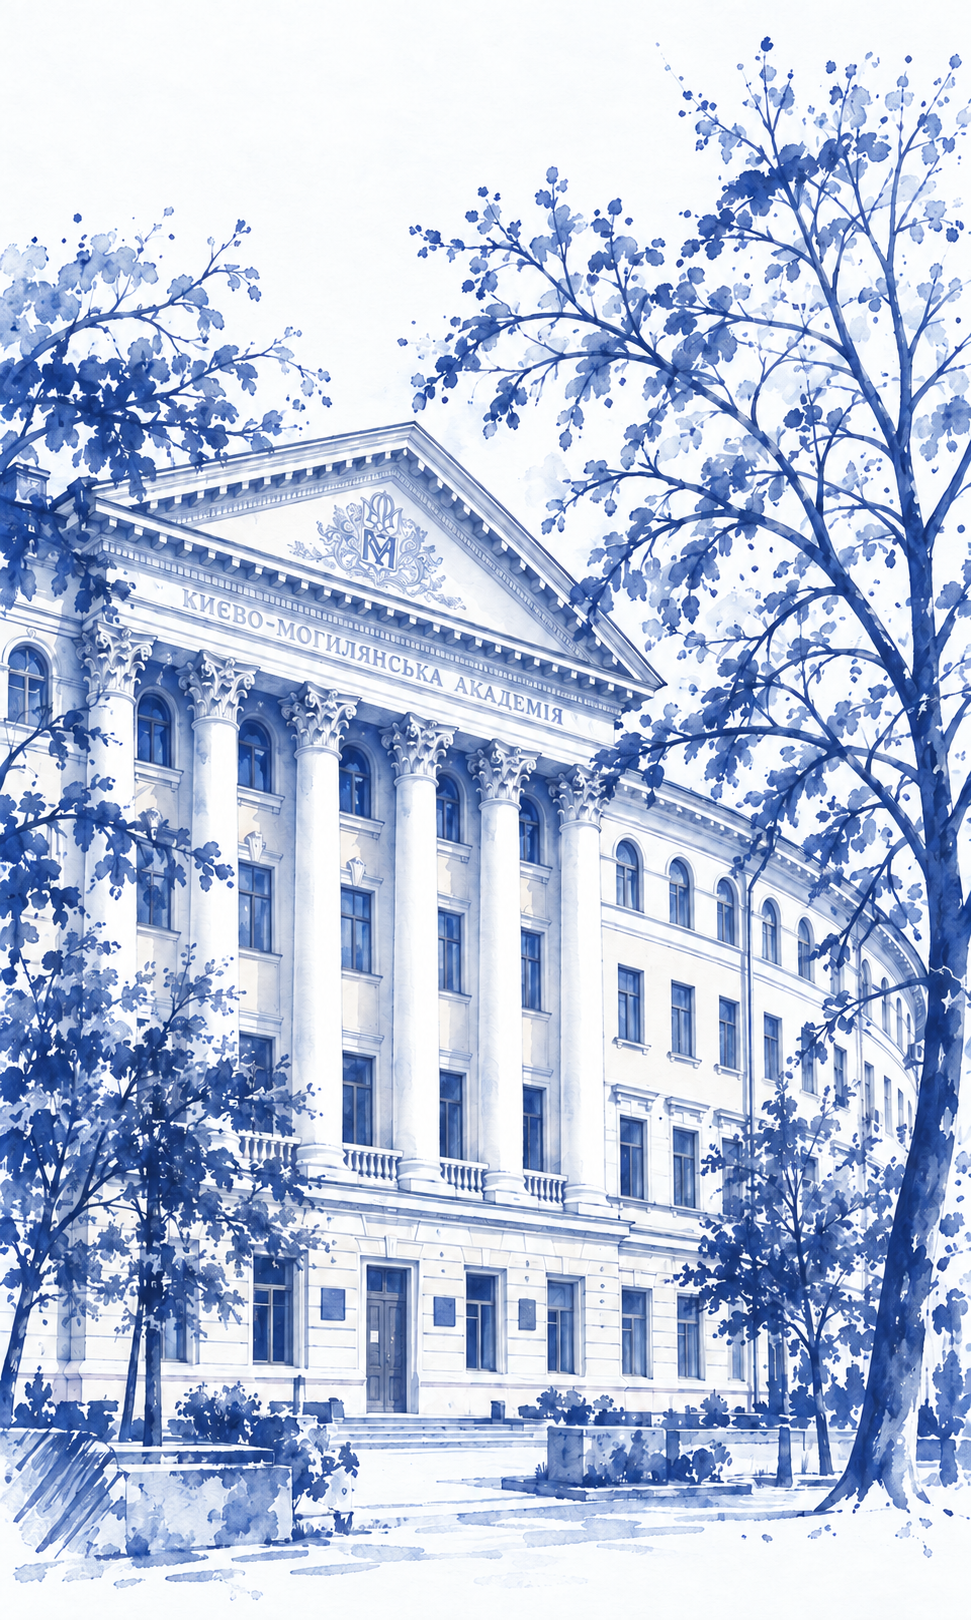
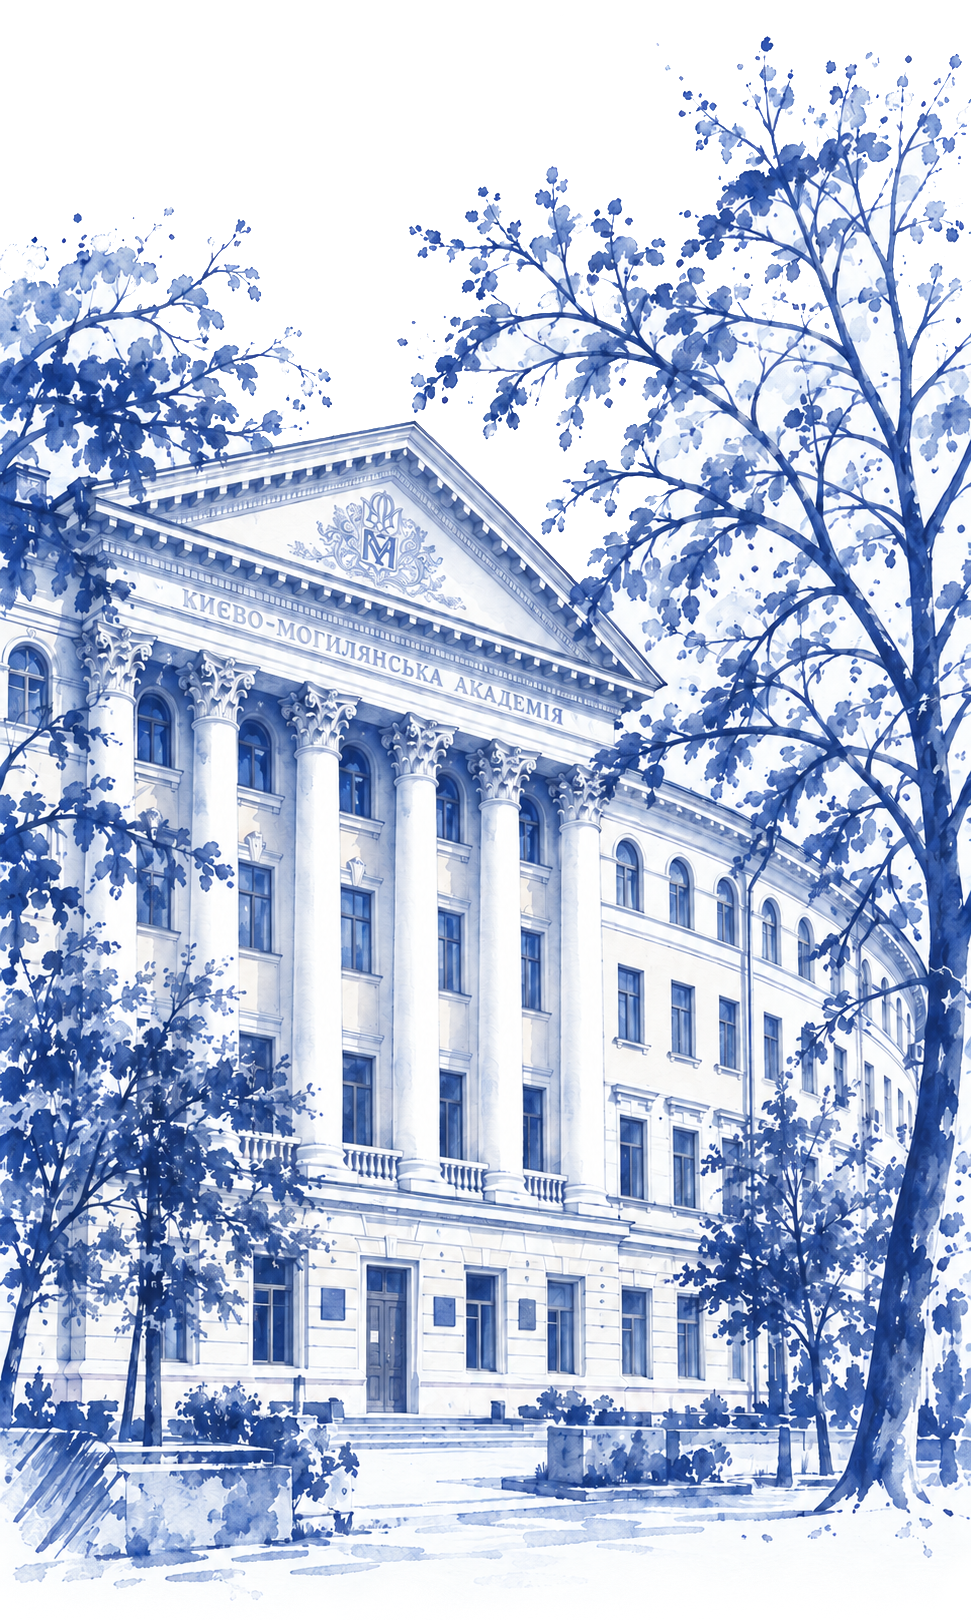
Replace Mohyla visual assets

diff --git a/src/app/app/page.tsx b/src/app/app/page.tsx
@@ -288,7 +288,14 @@ export default async function AppPage({ searchParams }: PageProps) {
                 totalCount={allCandidates.length}
                 view={view}
               />
-              <section className="rounded-lg border border-blue-50 bg-[#fffaf0] p-7">
+              <section
+                className="rounded-lg border border-blue-50 bg-[#fffaf0] bg-cover bg-center bg-no-repeat p-7"
+                style={{
+                  backgroundImage:
+                    "url('/branding/mohyla-quote-architecture.png')",
+                  backgroundPosition: "center bottom",
+                }}
+              >
                 <p className="font-serif text-6xl font-bold leading-none text-blue-800">
                   &quot;
                 </p>

diff --git a/src/components/matching/app-chrome.tsx b/src/components/matching/app-chrome.tsx
@@ -326,7 +326,13 @@ export function BrandQuoteCard({
   text: string;
 }>) {
   return (
-    <section className="rounded-lg border border-blue-50 bg-[#fffaf0] p-7">
+    <section
+      className="rounded-lg border border-blue-50 bg-[#fffaf0] bg-cover bg-center bg-no-repeat p-7"
+      style={{
+        backgroundImage: "url('/branding/mohyla-quote-architecture.png')",
+        backgroundPosition: "center bottom",
+      }}
+    >
       <p className="font-serif text-6xl font-bold leading-none text-blue-800">
         &quot;
       </p>
